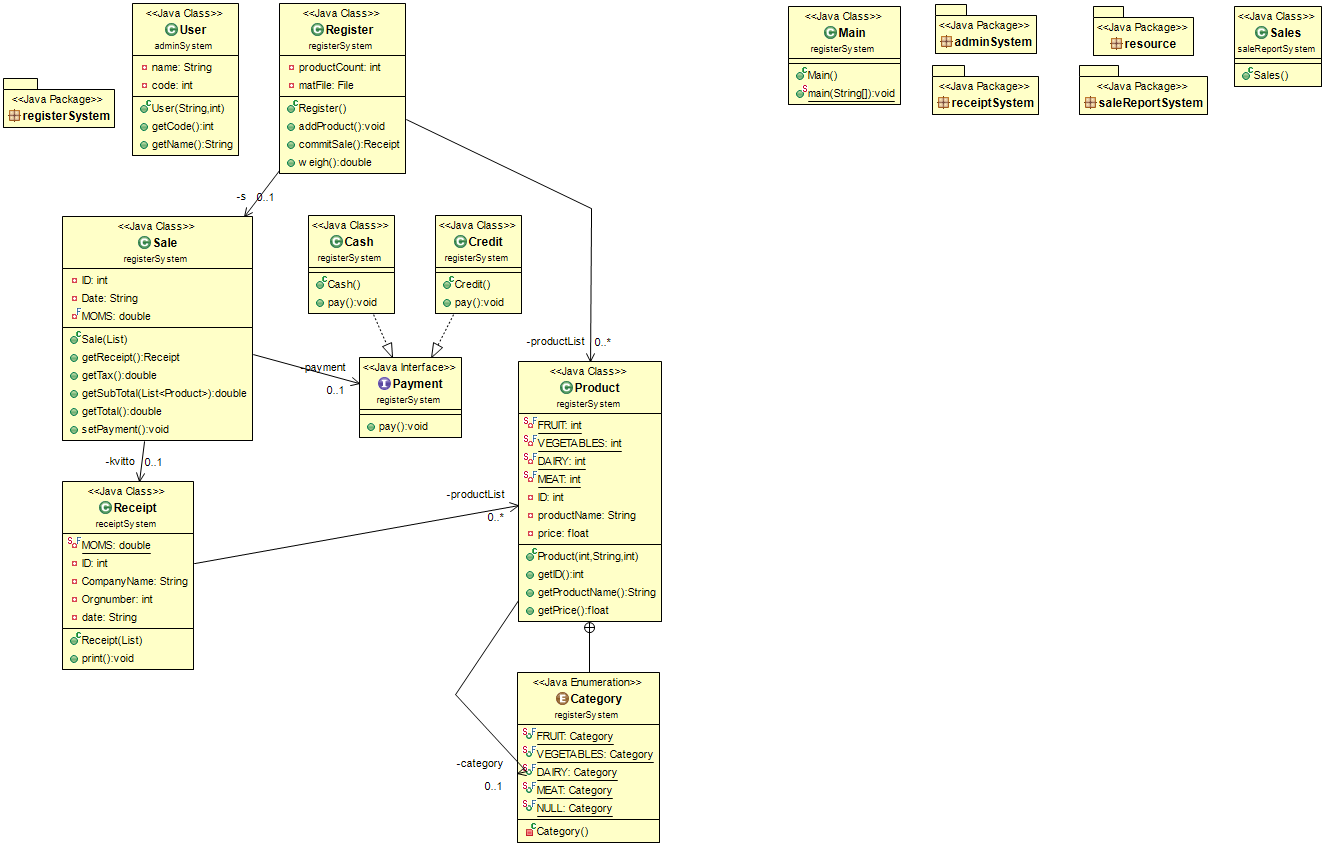
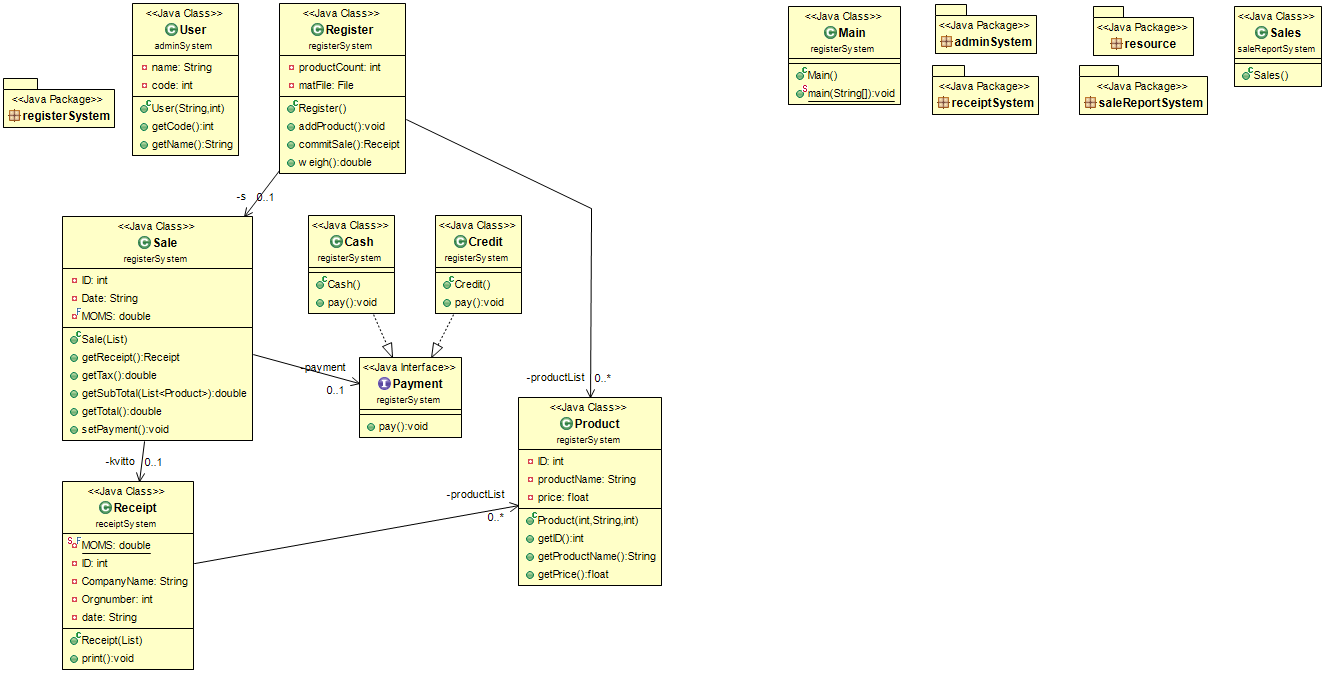
at it again

Changed region(s): [[0.0, 0.0, 0.526, 0.9985], [0.5879, 0.0, 1.0, 0.1872]]

diff --git a/Cashier/registerSystem/Product.java b/Cashier/registerSystem/Product.java
@@ -1,7 +1,7 @@
 package registerSystem;
 
 public class Product {
-	
+	/*
 	private static enum Category {
 		FRUIT, VEGETABLES, DAIRY, MEAT, NULL
 	}
@@ -14,6 +14,7 @@ public class Product {
 	private static final int MEAT = 3;
 	
 	private Category category;
+	*/
 	
 	private int ID;
 	private String productName;
